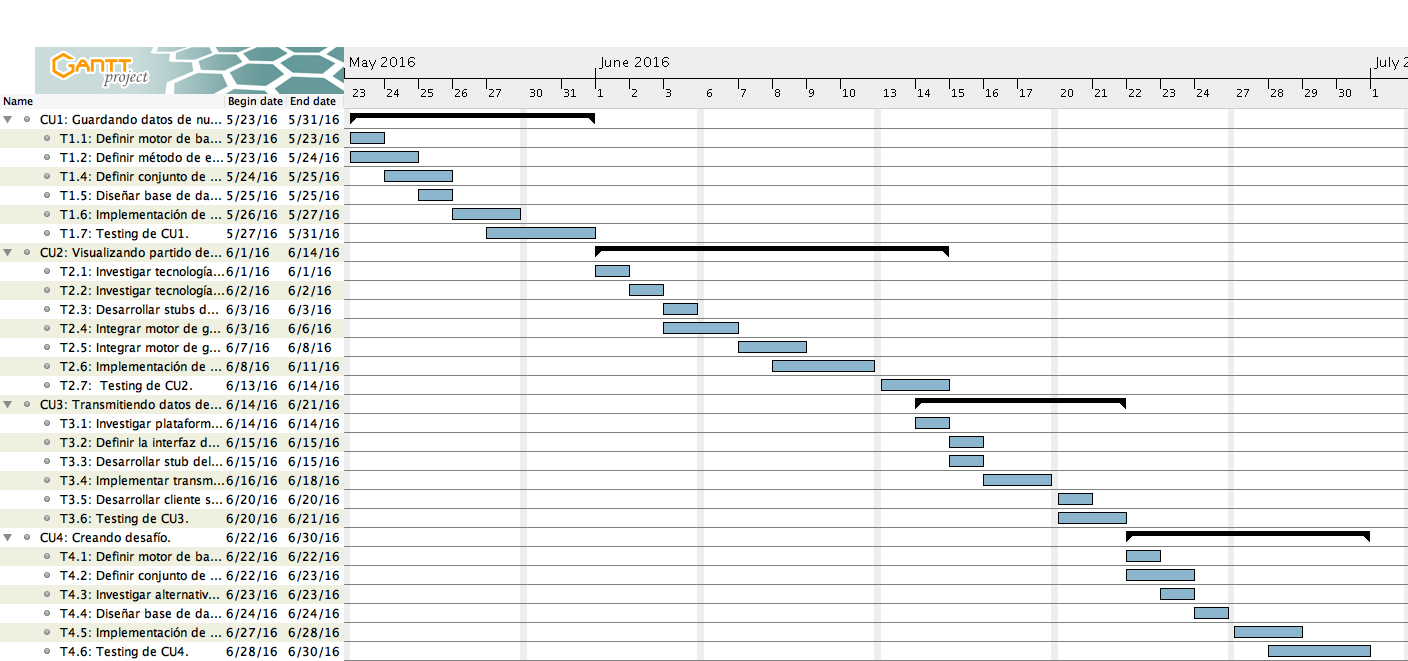
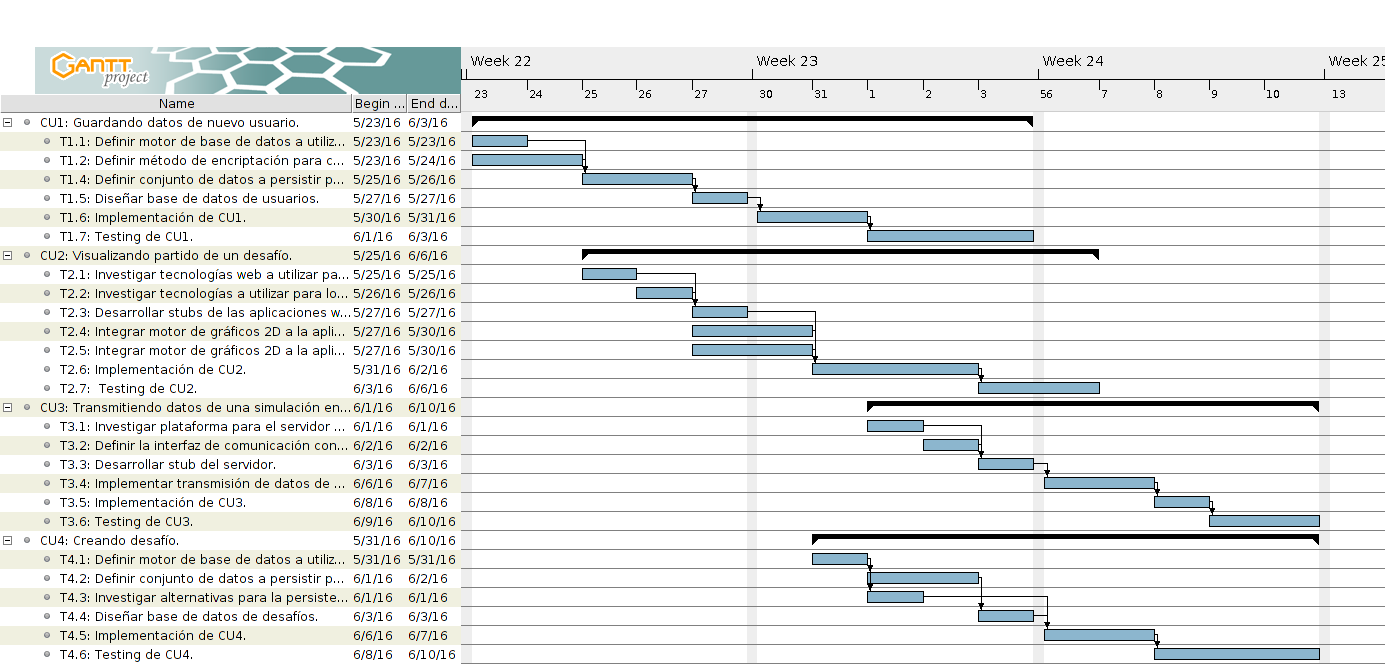
Fix dependencias gantt

diff --git a/tex/informe.tex b/tex/informe.tex
@@ -488,7 +488,7 @@ En el siguiente diagrama detallamos el plan de desarrollo del proyecto, con una 
 \begin{landscape}
 \begin{center}
   \begin{figure}[h!]
-    \includegraphics[width=25cm]{gantt.png}
+    \includegraphics[width=25cm]{./diagramas/gantt.png}
     \caption{Diagrama de Gantt de la 1era iteración con la asignación de tiempo}
     \label{fig:gantt}
   \end{figure}
